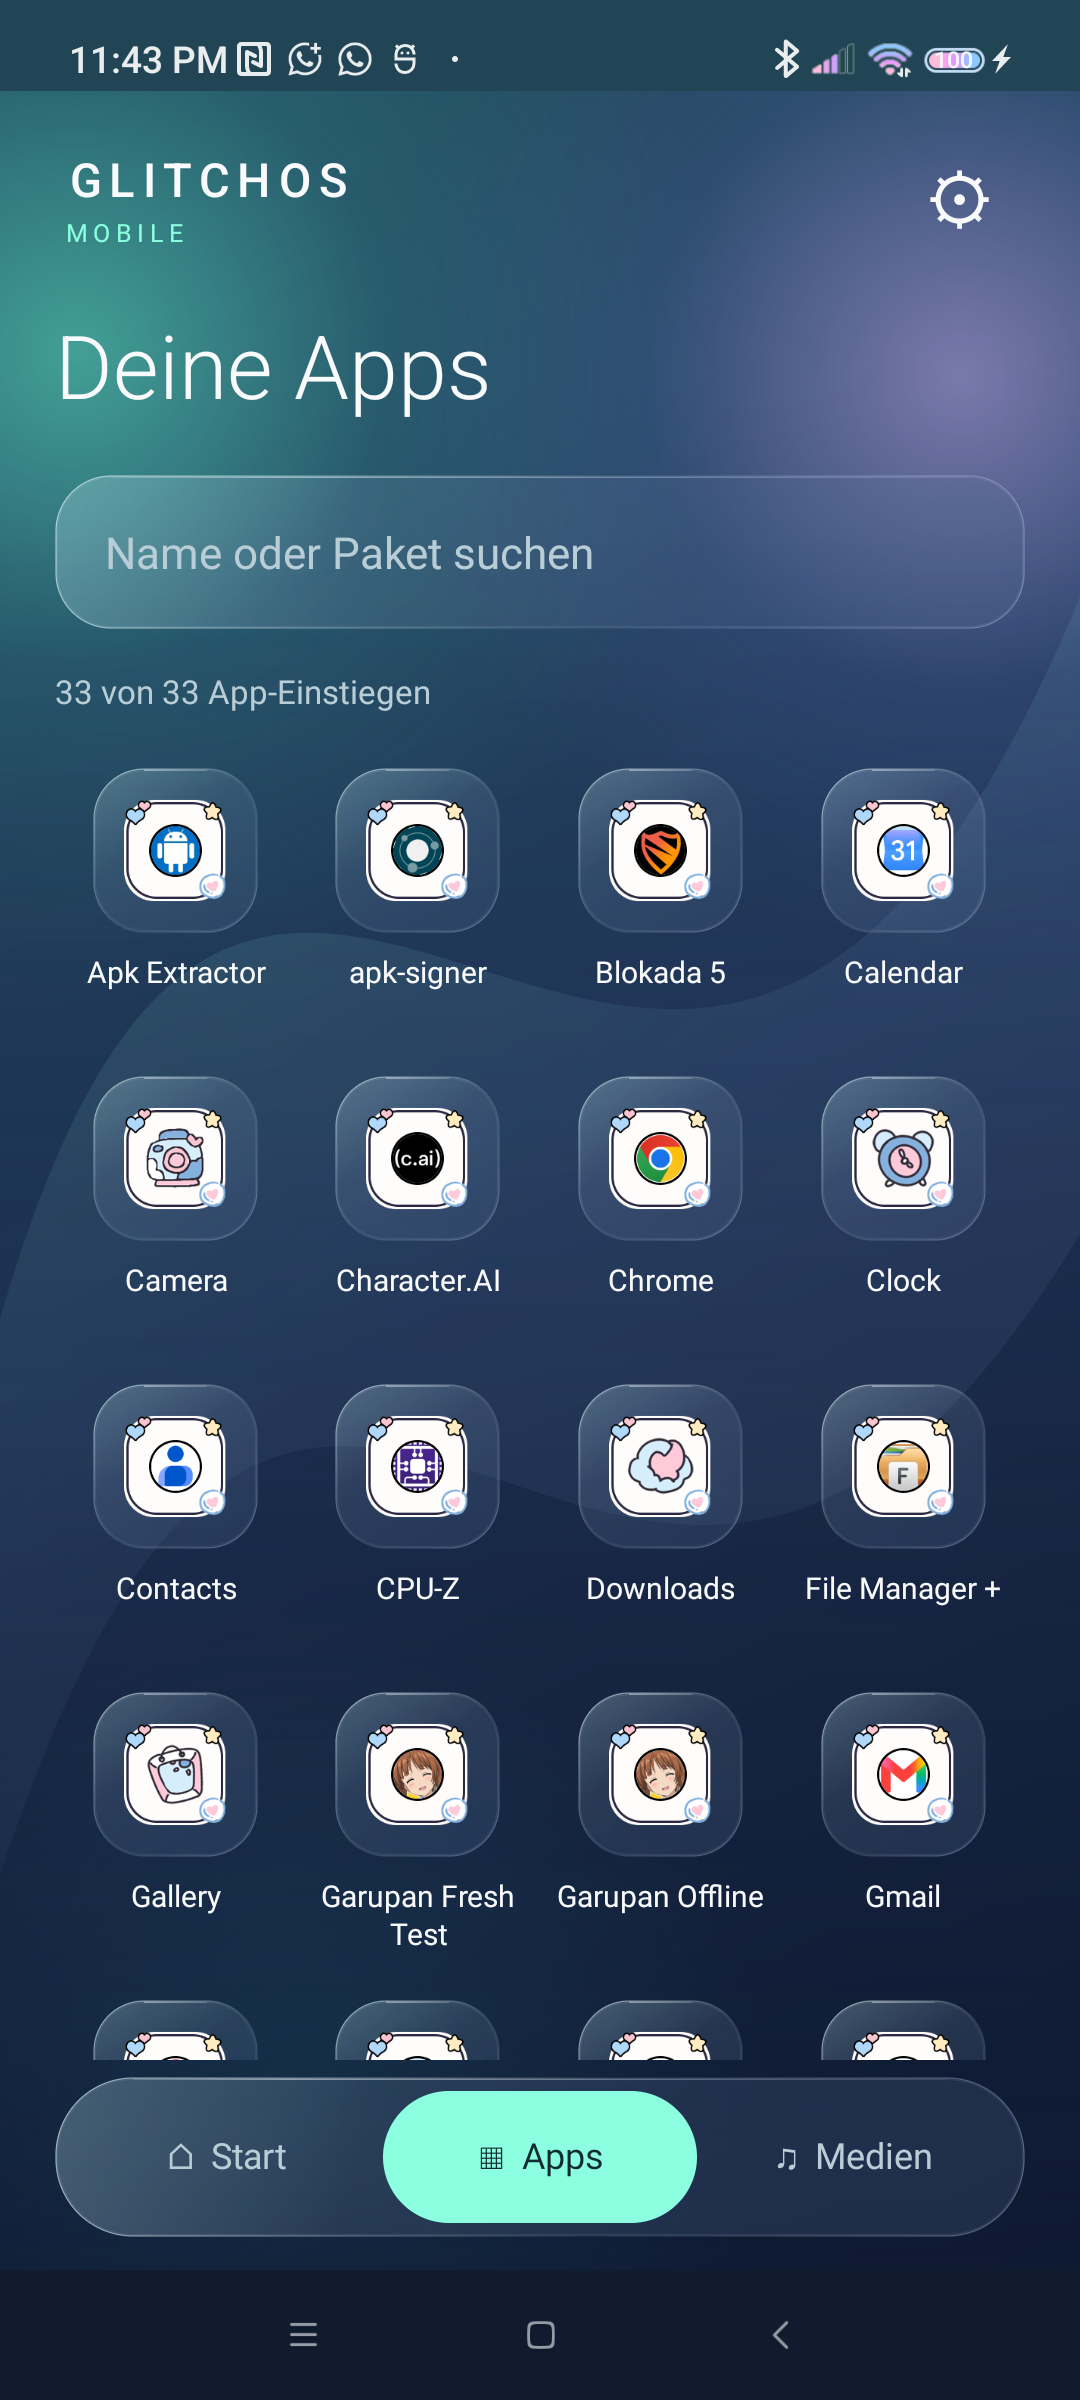
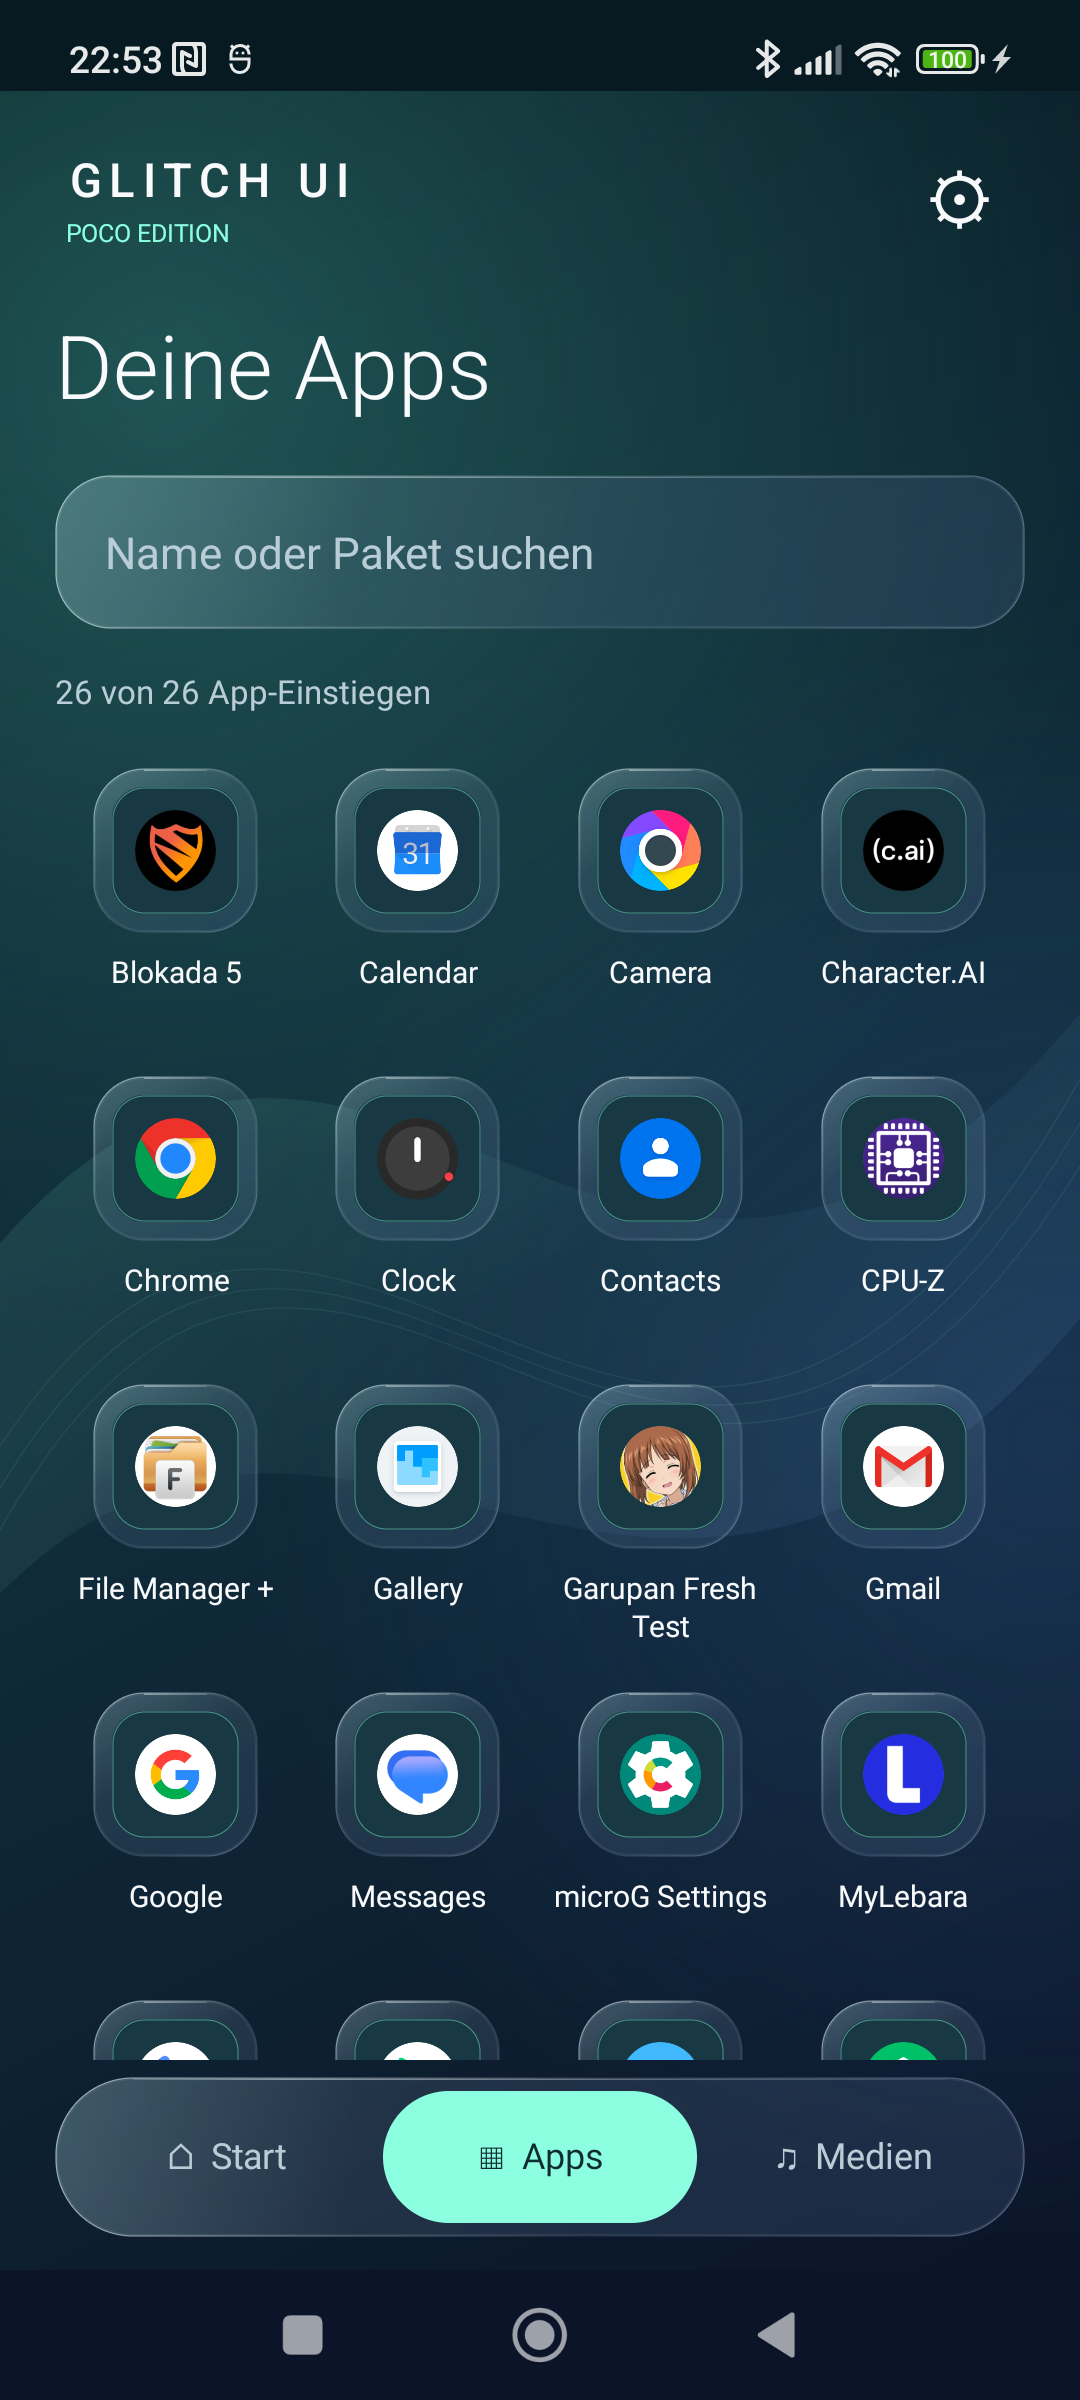
Refresh launcher screenshots from POCO

diff --git a/README.md b/README.md
@@ -10,9 +10,9 @@ GlitchOS gives the phone a custom launcher with app search, favorites, a media p
 | --- | --- |
 | ![GlitchOS home screen with favorites and the dark glass interface](docs/images/launcher-home.png) | ![GlitchOS app library with search and installed apps](docs/images/launcher-apps.png) |
 
-| Media controls | Android Recents |
+| Media tab | Android Recents |
 | --- | --- |
-| ![Now Playing screen with playback controls](docs/images/launcher-media.png) | ![Android recent apps screen alongside GlitchOS](docs/images/launcher-recents.png) |
+| ![GlitchOS media tab ready for a media session](docs/images/launcher-media.png) | ![Android recent apps screen alongside GlitchOS](docs/images/launcher-recents.png) |
 
 Screenshots were captured on the POCO X3 NFC during device testing. Android's Recents screen remains provided by MIUI Quickstep.
 
